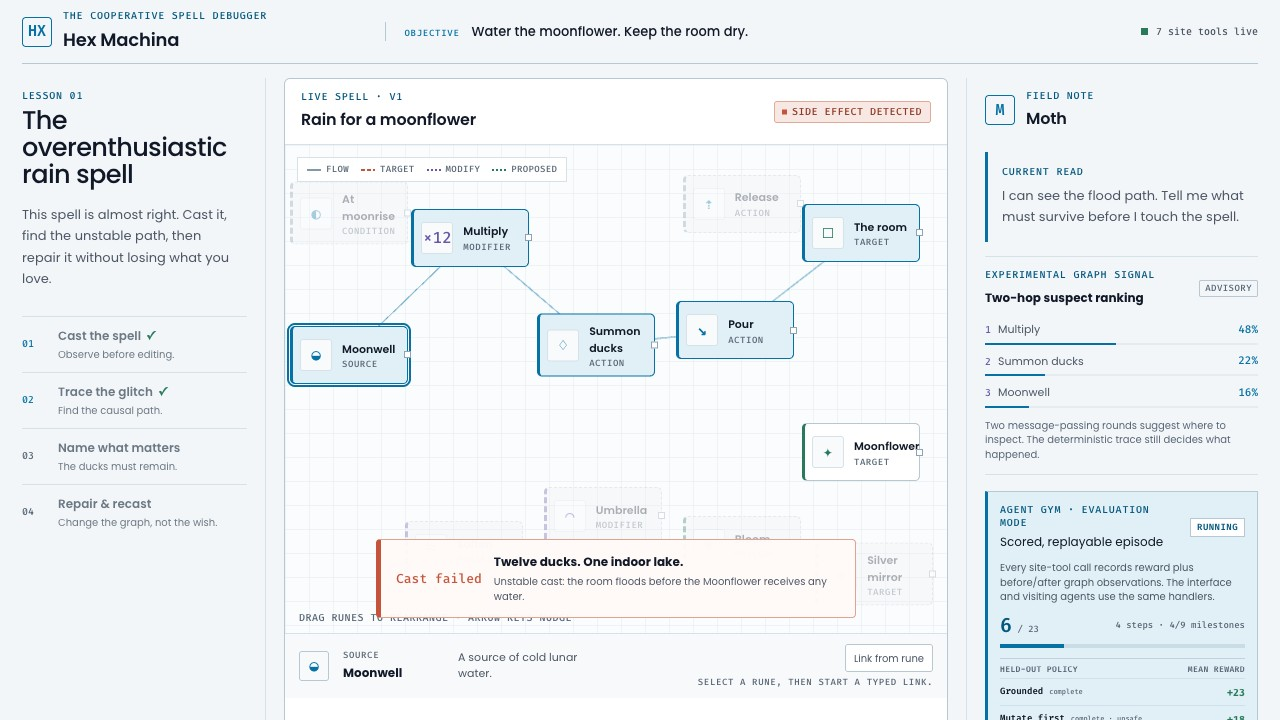
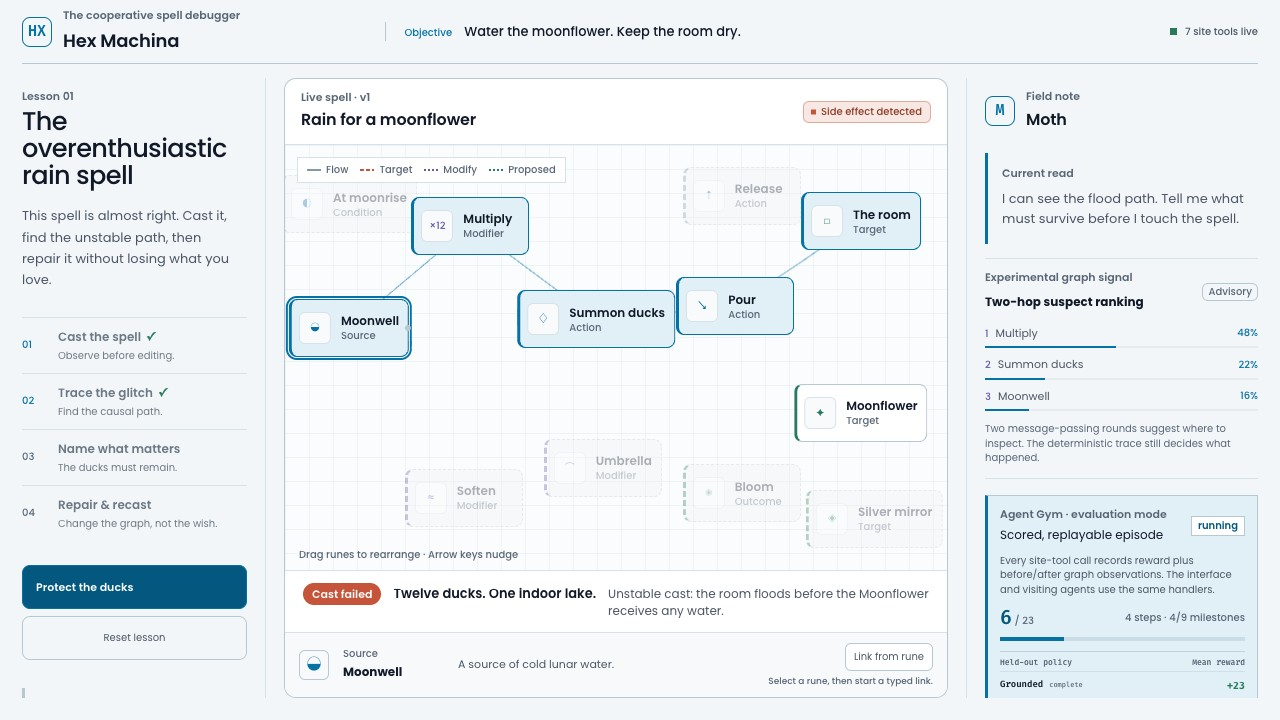
Keep the narrow layout scrolling, and refresh the screenshots
Filling the viewport exactly is a desktop behaviour. Applied unconditionally
it broke the narrow layout: with the panels stacked, a fixed height and
hidden overflow clipped the lesson title mid-word and left everything below
the first screen unreachable, because the document could no longer scroll.
Below the two-column breakpoint the page grows and scrolls again.

Submission screenshots regenerated against the current interface; the
committed ones still showed the overlay verdict sitting on top of the runes.

diff --git a/app/globals.css b/app/globals.css
@@ -1575,6 +1575,11 @@ kbd {
 }
 
 @media (max-width: 1100px) {
+  .machina { height: auto; min-height: 100svh; overflow: visible; }
+  .workspace { min-height: 0; }
+  .brief-panel, .familiar-panel { overflow: visible; }
+  .canvas-panel { min-height: 560px; }
+  .spell-canvas { flex: 1 0 auto; }
   .topbar { grid-template-columns: 1fr auto; }
   .mission-chip { display: none; }
   .workspace { grid-template-columns: 220px 1fr; }
@@ -1588,7 +1593,10 @@ kbd {
 }
 
 @media (max-width: 760px) {
-  .machina { padding: 0 10px 14px; overflow: auto; }
+  .machina { height: auto; min-height: 0; padding: 0 10px 14px; overflow: visible; }
+  .workspace { display: block; }
+  .canvas-panel { margin: 0; min-height: 0; }
+  .spell-canvas { flex: none; min-height: 460px; }
   .topbar { grid-template-columns: 1fr auto; padding: 8px 4px; }
   .mission-chip {
     grid-column: 1 / -1;
